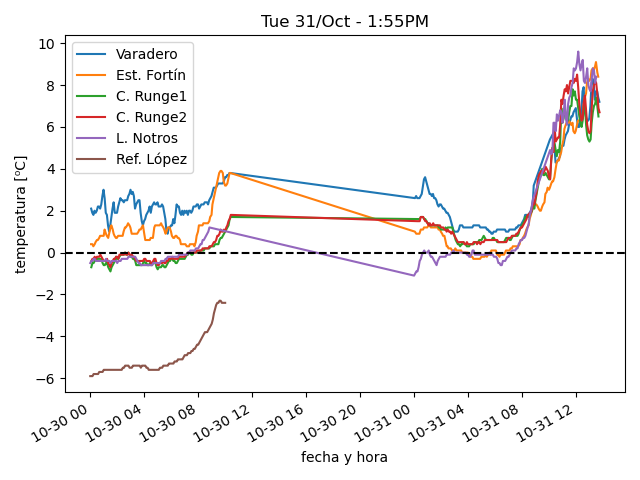
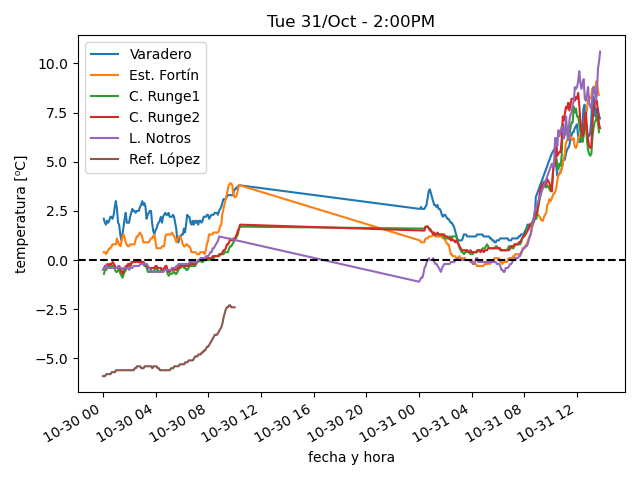
actualiza datos

diff --git a/estaciones/estacion5.html b/estaciones/estacion5.html
@@ -18,27 +18,27 @@
     </tr>
     <tr>
      <td class="stats_data">
-      1:30PM
+      1:45PM
      </td>
     </tr>
     <tr>
      <td class="stats_data">
-      8.4⁰C
+      10.6⁰C
      </td>
     </tr>
     <tr>
      <td class="stats_data">
-      1.6⁰C
+      2.1⁰C
      </td>
     </tr>
     <tr>
      <td class="stats_data">
-      62.0%
+      56.0%
      </td>
     </tr>
     <tr>
      <td class="stats_data">
-      1023.03hPa
+      1022.22hPa
      </td>
     </tr>
     <tr>
